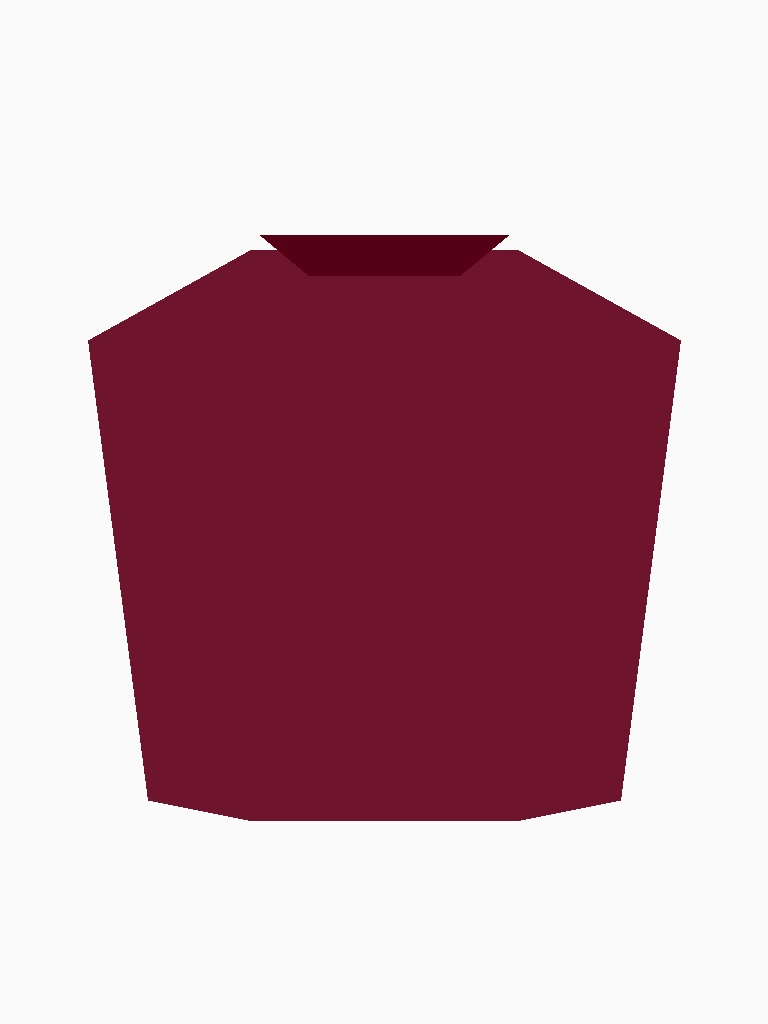
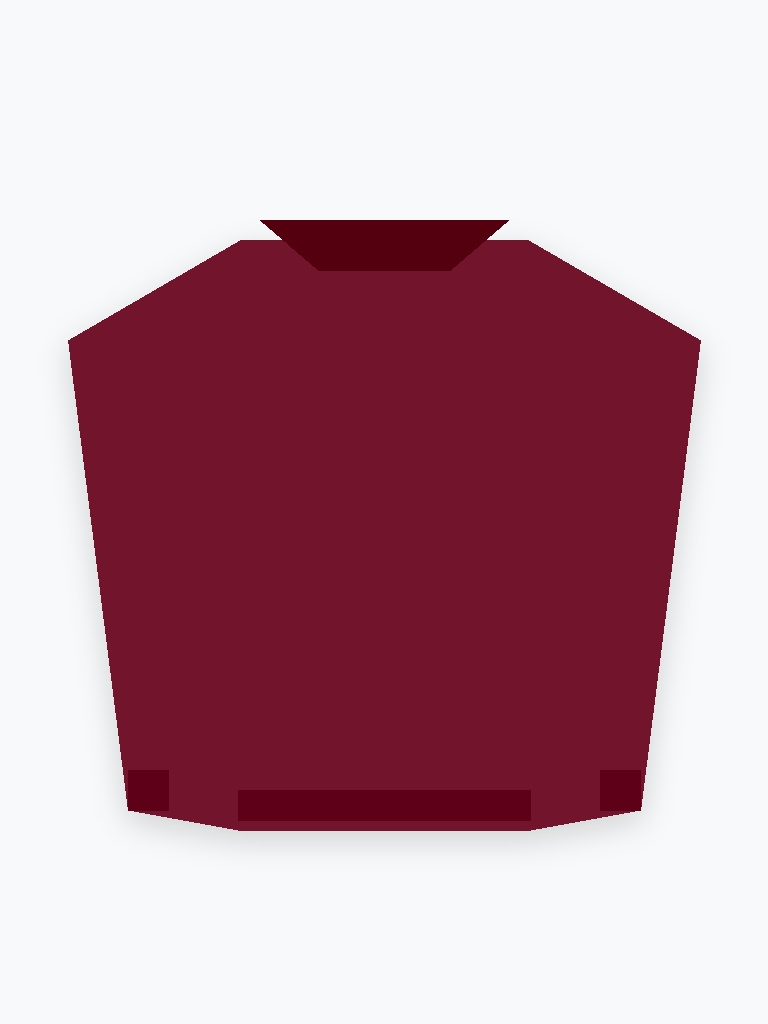
fix: update static uploaded images for poleras and chompas

Changed region(s): [[0.0938, 0.2812, 0.9375, 0.8438], [0.2188, 0.1875, 0.7812, 0.2812]]

diff --git a/insertar_variedad_prendas.py b/insertar_variedad_prendas.py
@@ -1,0 +1,159 @@
+import time
+import os
+from database import SessionLocal
+from models.catalogo import Ropa, VariantePrenda
+from models.sucursal import InventarioSucursal, Sucursal
+
+def insertar_prendas_variadas():
+    db = SessionLocal()
+    try:
+        sucursal = db.query(Sucursal).first()
+        suc_id = sucursal.id if sucursal else 1
+
+        prendas_data = [
+            # POLERAS DE DIFERENTE MODELO
+            {
+                "nombre": "Polera Oversize Negra Urban",
+                "descripcion": "Polera oversize de corte urbano en algodón peinado premium",
+                "precio": 139.00,
+                "costo_estandar": 70.00,
+                "imagen_uri": "/static/uploads/polera_oversize_negra.jpg",
+                "modelo_3d_uri": "/static/uploads/polera_textil_3d.glb",
+                "categoria_id": 2,
+                "color_id": 2
+            },
+            {
+                "nombre": "Polera Sport Athletic Azul",
+                "descripcion": "Polera deportiva transpirable de secado rápido azul navy",
+                "precio": 119.00,
+                "costo_estandar": 60.00,
+                "imagen_uri": "/static/uploads/polera_sport_azul.jpg",
+                "modelo_3d_uri": "/static/uploads/polera_textil_3d.glb",
+                "categoria_id": 2,
+                "color_id": 1
+            },
+            {
+                "nombre": "Polera Streetwear Graphic Roja",
+                "descripcion": "Polera casual estampada estilo streetwear algodón suave",
+                "precio": 129.00,
+                "costo_estandar": 65.00,
+                "imagen_uri": "/static/uploads/polera_graphic_roja.jpg",
+                "modelo_3d_uri": "/static/uploads/polera_textil_3d.glb",
+                "categoria_id": 2,
+                "color_id": 2
+            },
+            {
+                "nombre": "Polera Polo Clásica Verde",
+                "descripcion": "Polera estilo polo cuello estructurado en piqué verde militar",
+                "precio": 149.00,
+                "costo_estandar": 75.00,
+                "imagen_uri": "/static/uploads/polera_polo_verde.jpg",
+                "modelo_3d_uri": "/static/uploads/polera_textil_3d.glb",
+                "categoria_id": 2,
+                "color_id": 4
+            },
+
+            # CHOMPAS / SWEATERS DE DIFERENTES COLORES (SIN CAPUCHA)
+            {
+                "nombre": "Chompa Cuello Redondo Azul Marino",
+                "descripcion": "Chompa de abrigo sin capucha en tono azul marino cuello redondo",
+                "precio": 189.00,
+                "costo_estandar": 95.00,
+                "imagen_uri": "/static/uploads/chompa_azul_marino.jpg",
+                "modelo_3d_uri": "/static/uploads/chaqueta_cuero_3d.glb",
+                "categoria_id": 6,
+                "color_id": 1
+            },
+            {
+                "nombre": "Chompa Tejida Beige Natural",
+                "descripcion": "Chompa de lana suave color beige natural sin capucha ideal para vestidor virtual",
+                "precio": 209.00,
+                "costo_estandar": 105.00,
+                "imagen_uri": "/static/uploads/chompa_beige_fino.jpg",
+                "modelo_3d_uri": "/static/uploads/chaqueta_cuero_3d.glb",
+                "categoria_id": 6,
+                "color_id": 4
+            },
+            {
+                "nombre": "Chompa Algodón Gris Jaspeado",
+                "descripcion": "Chompa cómoda sin capucha cuello crewneck color gris jaspeado",
+                "precio": 179.00,
+                "costo_estandar": 90.00,
+                "imagen_uri": "/static/uploads/chompa_gris_jaspeado.jpg",
+                "modelo_3d_uri": "/static/uploads/chaqueta_cuero_3d.glb",
+                "categoria_id": 6,
+                "color_id": 3
+            },
+            {
+                "nombre": "Chompa Casual Burdeos Premium",
+                "descripcion": "Chompa de punto fino color burdeos estilo elegante sin capucha",
+                "precio": 219.00,
+                "costo_estandar": 110.00,
+                "imagen_uri": "/static/uploads/chompa_burdeos_premium.jpg",
+                "modelo_3d_uri": "/static/uploads/chaqueta_cuero_3d.glb",
+                "categoria_id": 6,
+                "color_id": 2
+            }
+        ]
+
+        tallas_ids = [2, 3, 4, 5]  # S, M, L, XL
+        insertadas = []
+
+        for p_data in prendas_data:
+            # Crear prenda principal
+            ropa = Ropa(
+                nombre=p_data["nombre"],
+                descripcion=p_data["descripcion"],
+                precio=p_data["precio"],
+                costo_estandar=p_data["costo_estandar"],
+                imagen_uri=p_data["imagen_uri"],
+                modelo_3d_uri=p_data["modelo_3d_uri"],
+                categoria_id=p_data["categoria_id"],
+                activo=True
+            )
+            db.add(ropa)
+            db.flush()
+
+            # Crear variantes por talla
+            for t_id in tallas_ids:
+                ts = int(time.time() * 1000) % 100000
+                sku_clean = p_data["nombre"].replace(" ", "-")[:10].upper()
+                bar = f"779088{ropa.id}{t_id}{ts}"
+                
+                var = VariantePrenda(
+                    ropa_id=ropa.id,
+                    talla_id=t_id,
+                    color_id=p_data["color_id"],
+                    cod_barra=bar,
+                    sku=f"{sku_clean}-T{t_id}",
+                    activo=True
+                )
+                db.add(var)
+                db.flush()
+
+                # Stock en inventario
+                inv = InventarioSucursal(
+                    sucursal_id=suc_id,
+                    variante_id=var.id,
+                    stock_fisico=25,
+                    stock_reservado=0,
+                    stock_minimo=5
+                )
+                db.add(inv)
+
+            insertadas.append(f"ID {ropa.id}: {ropa.nombre}")
+
+        db.commit()
+        print(f"✅ ¡{len(insertadas)} prendas registradas exitosamente en la DB!")
+        for item in insertadas:
+            print(f"   • {item}")
+
+    except Exception as e:
+        db.rollback()
+        print(f"❌ Error al registrar prendas: {e}")
+    finally:
+        db.close()
+
+if __name__ == "__main__":
+    insertar_prendas_variadas()
+

diff --git a/actualizar_imagenes_locales.py b/actualizar_imagenes_locales.py
@@ -14,7 +14,23 @@ def actualizar():
 
         for r in ropas:
             nom = (r.nombre or "").lower()
-            if "polera" in nom and "cat" in nom:
+            if "oversize" in nom:
+                r.imagen_uri = "/static/uploads/polera_oversize_negra.jpg"
+            elif "sport" in nom or "athletic" in nom:
+                r.imagen_uri = "/static/uploads/polera_sport_azul.jpg"
+            elif "streetwear" in nom or "graphic" in nom:
+                r.imagen_uri = "/static/uploads/polera_graphic_roja.jpg"
+            elif "polo" in nom:
+                r.imagen_uri = "/static/uploads/polera_polo_verde.jpg"
+            elif "chompa" in nom and "azul" in nom:
+                r.imagen_uri = "/static/uploads/chompa_azul_marino.jpg"
+            elif "chompa" in nom and "beige" in nom:
+                r.imagen_uri = "/static/uploads/chompa_beige_fino.jpg"
+            elif "chompa" in nom and "gris" in nom:
+                r.imagen_uri = "/static/uploads/chompa_gris_jaspeado.jpg"
+            elif "chompa" in nom and "burdeos" in nom:
+                r.imagen_uri = "/static/uploads/chompa_burdeos_premium.jpg"
+            elif "polera" in nom and "cat" in nom:
                 r.imagen_uri = "/static/uploads/polera_cat_gris.png"
             elif "chamarra" in nom and "racco" in nom:
                 r.imagen_uri = "/static/uploads/chamarra_racco_negra.png"
@@ -24,7 +40,7 @@ def actualizar():
                 r.imagen_uri = "/static/uploads/polera_blanca_algodon.jpg"
             elif "vestido" in nom:
                 r.imagen_uri = "/static/uploads/vestido_estampado_floral.jpg"
-            elif "cuero" in nom or "sudadera" in nom or "roja" in nom:
+            elif "cuero" in nom or "sudadera" in nom:
                 r.imagen_uri = "/static/uploads/sudadera_roja_casual.jpg"
             elif "uficct" in nom:
                 r.imagen_uri = "/static/uploads/polera_cat_gris.png"

diff --git a/scratch/list_cus.py b/scratch/list_cus.py
@@ -1,0 +1,17 @@
+import os
+import glob
+import re
+
+for f in sorted(glob.glob('routers/*.py')):
+    if f.endswith('__init__.py'):
+        continue
+    with open(f, 'r', encoding='utf-8', errors='ignore') as file_obj:
+        content = file_obj.read()
+        tags = re.findall(r'tags=\[([^\]]+)\]', content)
+        doc = ""
+        lines = content.split('\n')
+        for line in lines[:10]:
+            if "CU" in line or "Router" in line or "Caso" in line or "tags" in line:
+                doc += line.strip() + " "
+        print(f"{os.path.basename(f)}: {tags} | {doc[:80]}")
+
